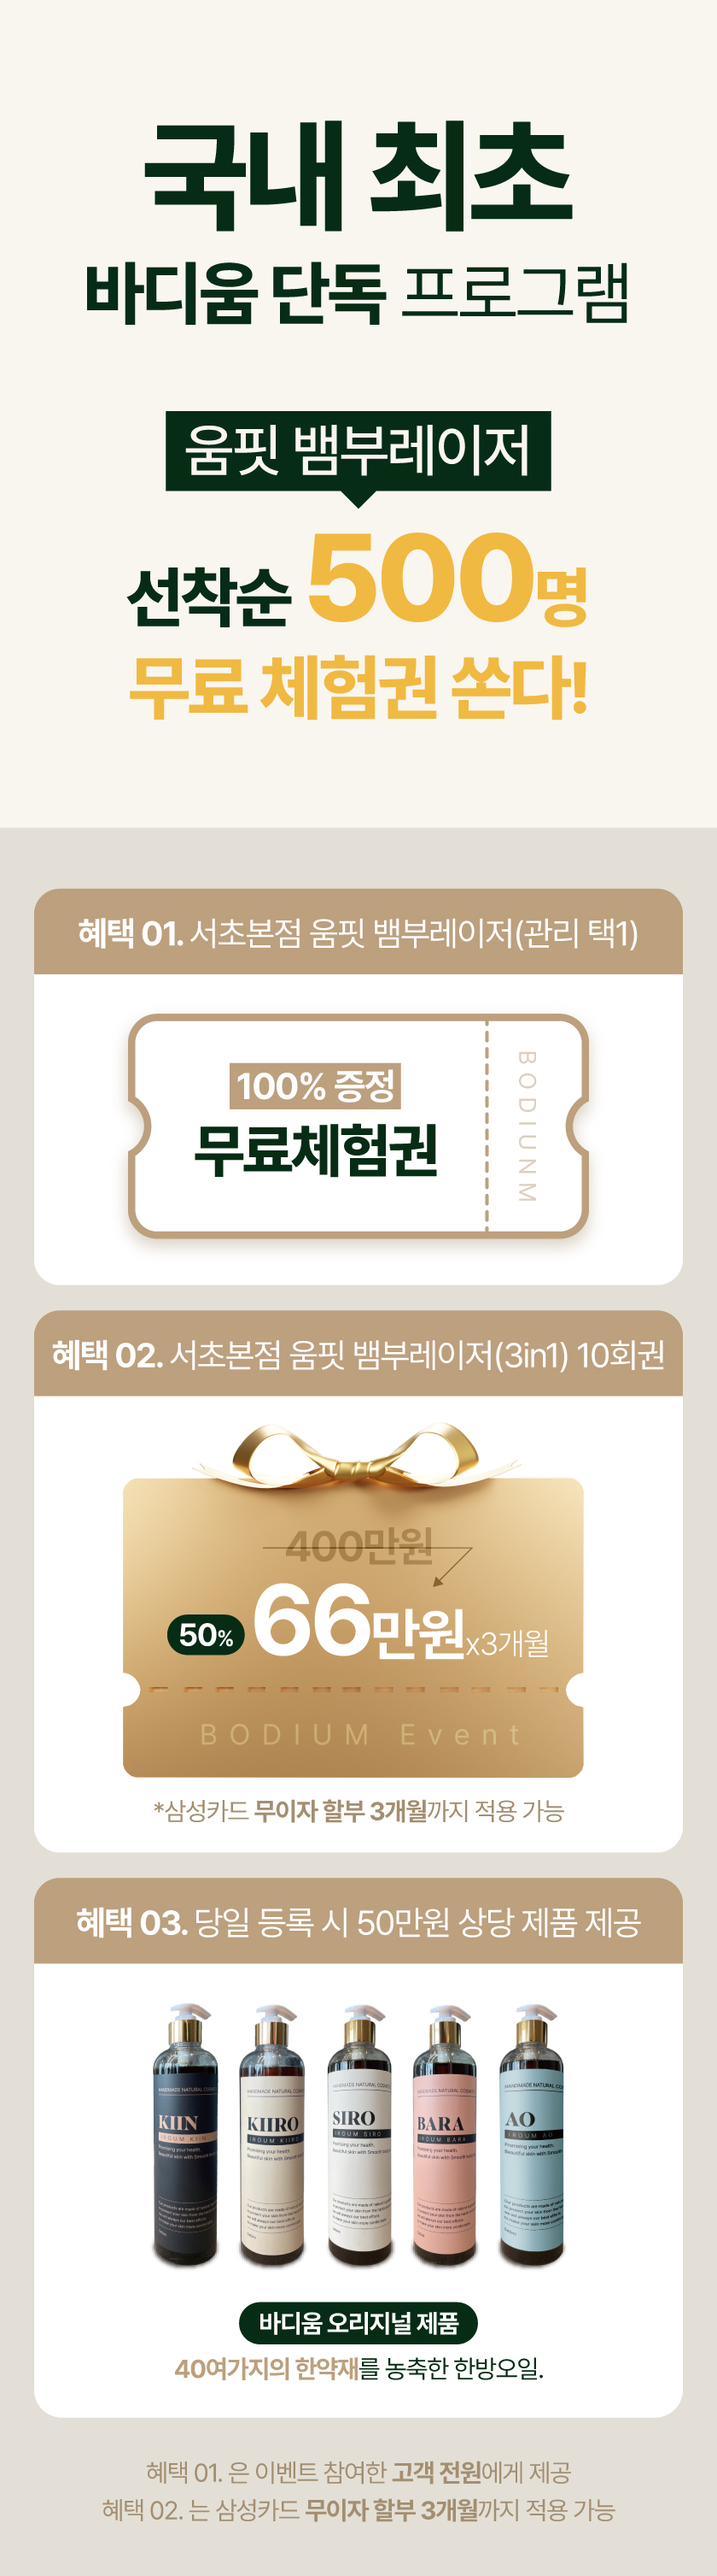
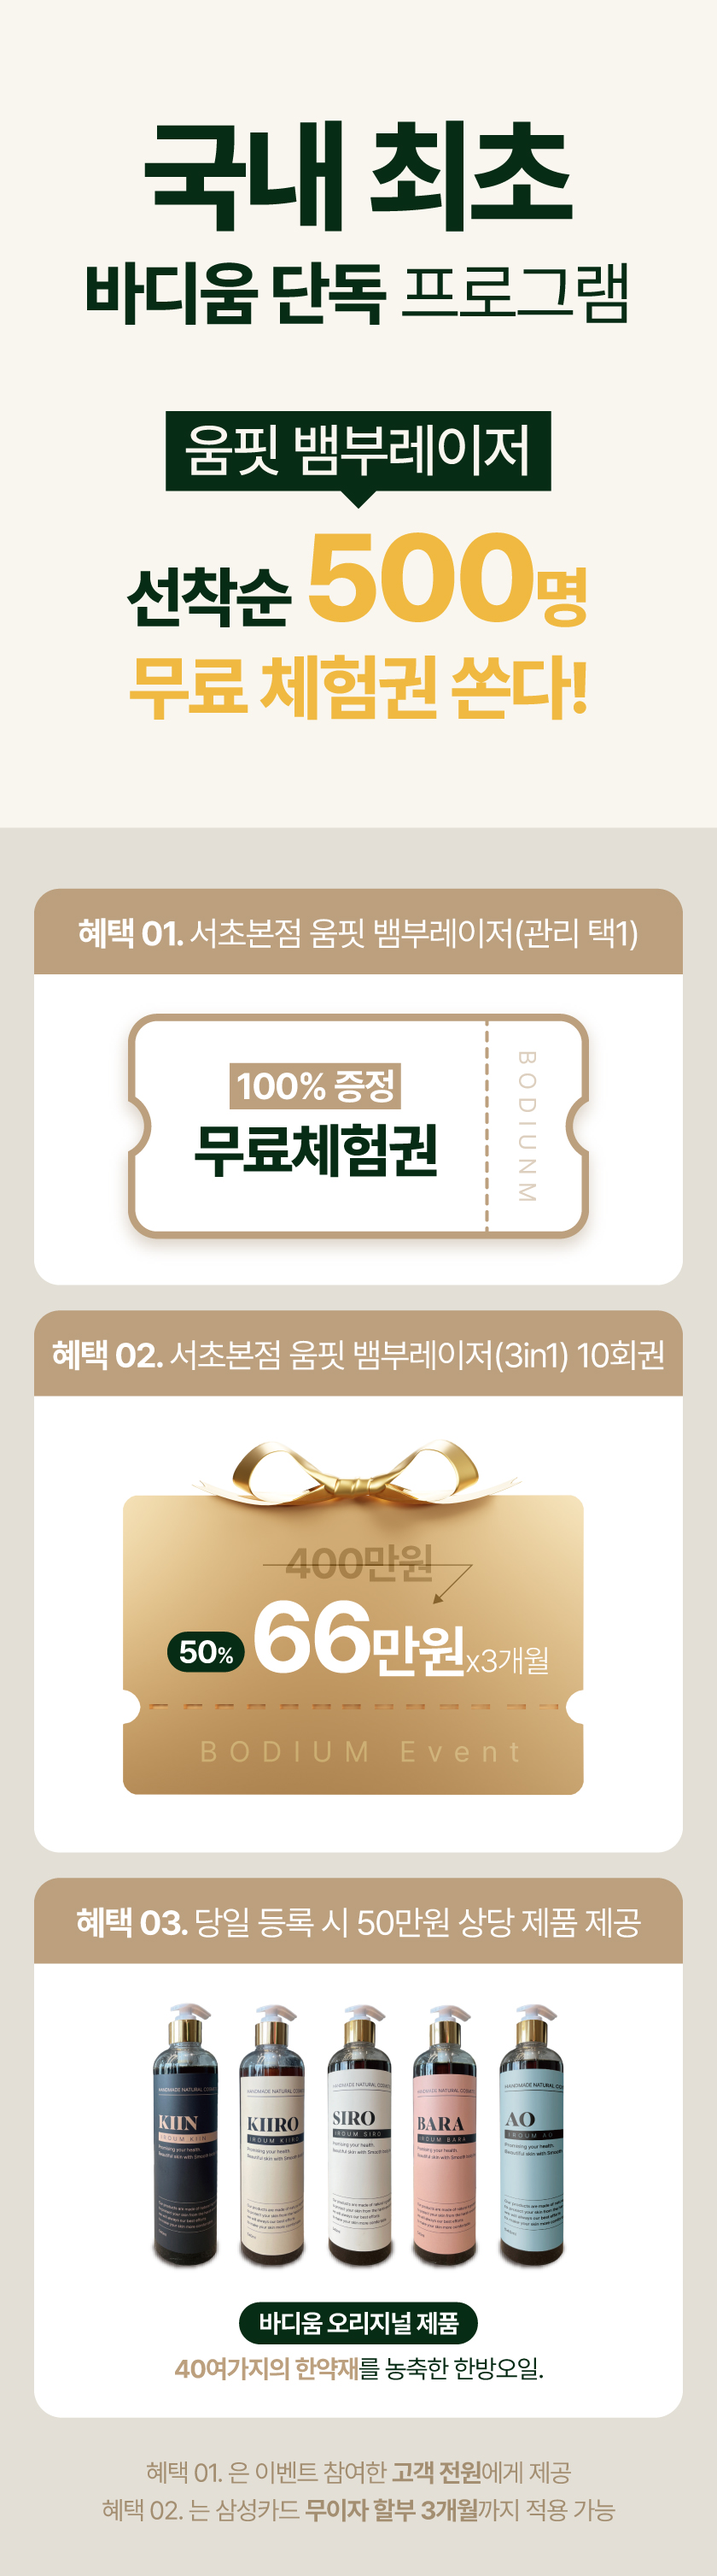
.

Changed region(s): [[0.1548, 0.5302, 0.8048, 0.7173]]

diff --git a/ecube_seocho.html b/ecube_seocho.html
@@ -40,8 +40,8 @@
             <!-- <div class="limit_con">
                 <p class="tit">바디움 체험단 <em>선착순 30명</em> 지원!</p>
             </div> -->
-            <img class="com_img" style="margin-bottom: 10px;" src="https://winawork.github.io/images/auth_banner_02.jpg" class="">
-            <img class="com_img" src="https://winawork.github.io/images/240606_banner_01.jpg" class="">
+            <img class="com_img" src="https://winawork.github.io/images/auth_banner_02.jpg" class="">
+            <!-- <img class="com_img" src="https://winawork.github.io/images/240606_banner_01.jpg" class=""> -->
             <img class="com_img" src="https://winawork.github.io/images/ec_240607_10.jpg" class="">
             <img class="com_img" src="https://winawork.github.io/images/ec_240607_01.jpg" class="">
             <img class="com_img" src="https://winawork.github.io/images/240610_01.gif" class="">
